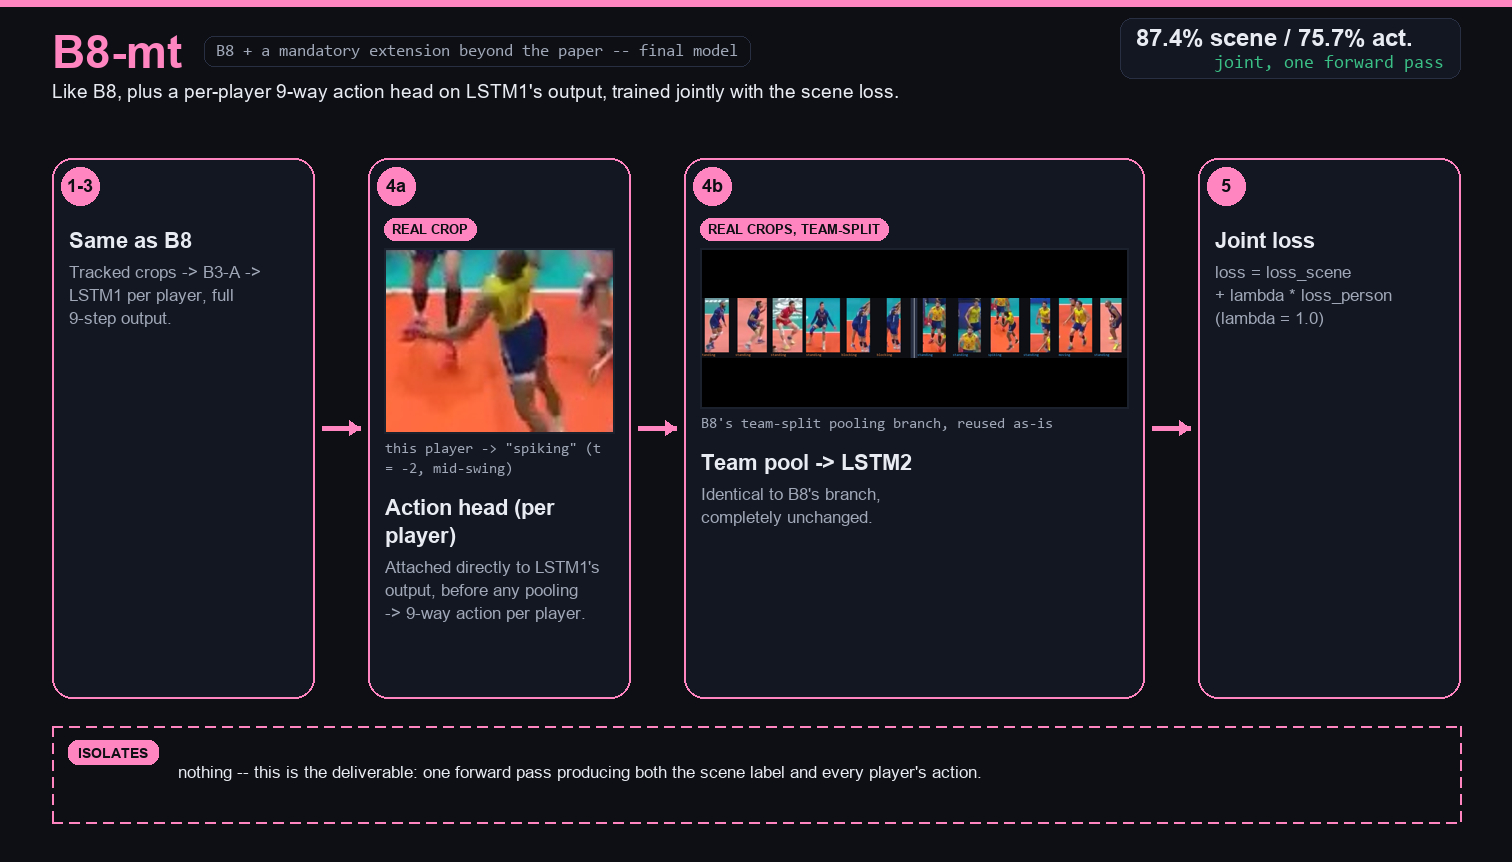
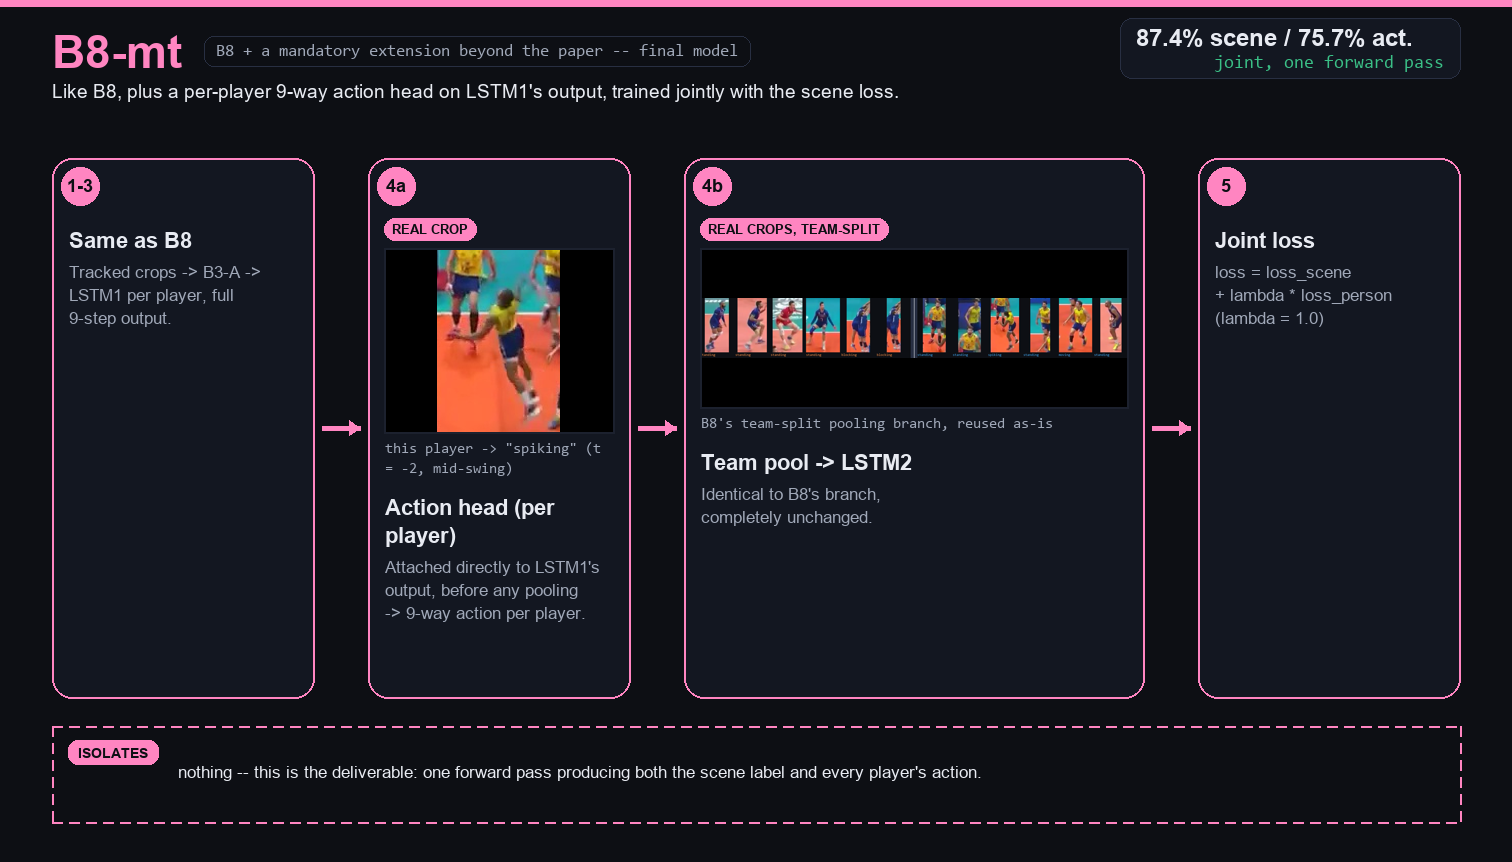
Show the full player bounding box instead of a cropped-to-fill square
The single-player spike illustration (B3, B8-mt) was using cover-fit,
which scales to fill its box and crops the overflow -- on this portrait
box that cut off the head and feet. Switched to contain-fit so the whole
ground-truth bounding box is visible, letterboxed instead of cropped.

Changed region(s): [[0.2487, 0.2715, 0.4041, 0.5128]]

diff --git a/src/evaluation/make_pipeline_diagrams_v2.py b/src/evaluation/make_pipeline_diagrams_v2.py
@@ -457,7 +457,7 @@ pipeline_diagram(
         {"num": "1A", "label": "One player crop", "sub": ["Target for step A: 9-way", "PERSON action, not the",
                                                             "8-way scene class."],
          "image": ASSETS["spiker_single"], "caption": 'ground-truth label: "spiking" (t = -2, mid-swing)',
-         "photo_h": 230, "cover": True, "tag": "REAL CROP"},
+         "photo_h": 230, "tag": "REAL CROP"},
         {"num": "2A", "label": "ResNet50 fine-tuned", "sub": ["On person-action labels", "(this sub-step = \"B3-A\"):",
                                                                 "80.6% 9-way accuracy."]},
         {"num": "1BC", "label": "Freeze, re-run on all 12", "sub": ["Same now-fine-tuned backbone,",
@@ -567,7 +567,7 @@ pipeline_diagram(
         {"num": "4a", "label": "Action head (per player)", "sub": ["Attached directly to LSTM1's", "output, before any pooling",
                                                                      "-> 9-way action per player."],
          "image": ASSETS["spiker_single"], "caption": 'this player -> "spiking" (t = -2, mid-swing)',
-         "photo_h": 185, "cover": True, "tag": "REAL CROP"},
+         "photo_h": 185, "tag": "REAL CROP"},
         {"num": "4b", "label": "Team pool -> LSTM2", "sub": ["Identical to B8's branch,", "completely unchanged."],
          "image": ASSETS["team_split"], "caption": "B8's team-split pooling branch, reused as-is",
          "w": 460, "photo_h": 160, "tag": "REAL CROPS, TEAM-SPLIT"},
